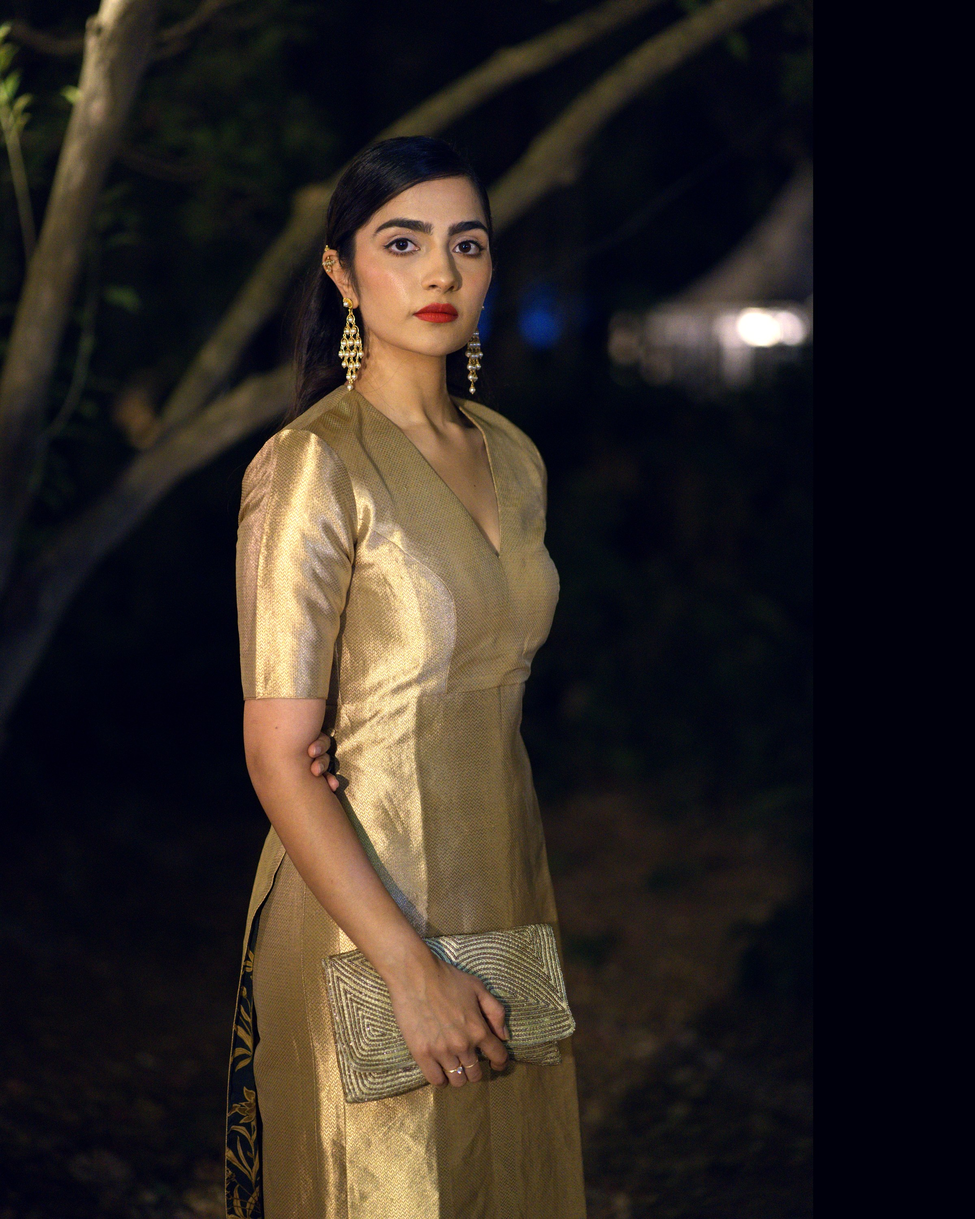
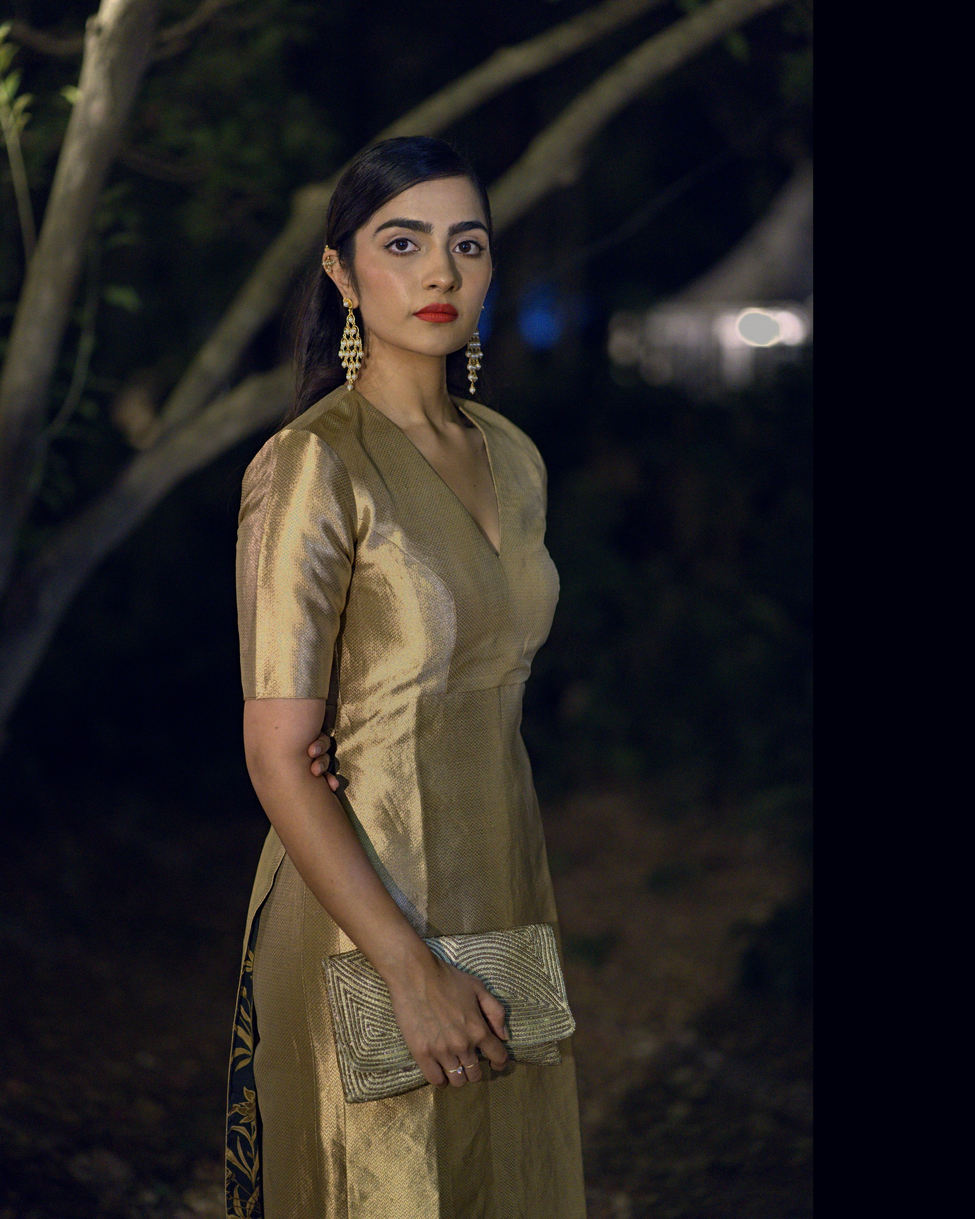
Rukmini v3 grade: highlight rolloff + local even-tone + skin-mag cleanup. Featured card uses 09185

Changed region(s): [[0.2188, 0.155, 0.5625, 1.0], [0.75, 0.248, 0.8125, 0.279]]

diff --git a/tools/grade3.py b/tools/grade3.py
@@ -1,0 +1,124 @@
+#!/usr/bin/env python3
+"""Skin-perfect grade (v3) — the priority is the SKIN, not the cinema look.
+Pipeline (in order):
+  1.  Highlight rolloff — compress the brightest pixels (kills hot cheeks).
+  2.  Local even-tone — gentle frequency-separation to balance left/right
+      lit/shadow side of face without flattening detail.
+  3.  Skin colour clean-up — pull magenta out of skin hues, anchor to a
+      warm neutral. Slight saturation drop ON skin so highlights aren't
+      orange.
+  4.  Background mood — teal-tinted dark falloff (cinema lives here, not
+      on her face).
+  5.  Filmic toe + gentle vignette + fine grain.
+"""
+import os, sys
+import numpy as np
+from PIL import Image, ImageFilter, ImageDraw, ImageEnhance, ImageChops
+
+def to_np(img):  return np.asarray(img).astype(np.float32) / 255.0
+def to_img(a):   return Image.fromarray((np.clip(a, 0, 1) * 255).astype(np.uint8))
+
+def rgb_to_hsv(a):
+    r, g, b = a[..., 0], a[..., 1], a[..., 2]
+    mx, mn = a.max(-1), a.min(-1)
+    v = mx
+    s = np.where(mx > 1e-6, (mx - mn) / (mx + 1e-6), 0)
+    C = mx - mn + 1e-6
+    h = np.zeros_like(mx)
+    m = (mx == r); h[m] = ((g - b)[m] / C[m]) % 6
+    m = (mx == g); h[m] = (b - r)[m] / C[m] + 2
+    m = (mx == b); h[m] = (r - g)[m] / C[m] + 4
+    return h * 60.0, s, v
+
+def grade(src, dst, crop45=None, max_w=2400):
+    img = Image.open(src).convert('RGB')
+
+    # crop 16:9 -> 4:5 around the face centre (cx in 0..1)
+    if crop45 is not None:
+        w, h = img.size
+        cw = int(h * 4 / 5)
+        x0 = int(max(0, min(w - cw, crop45 * w - cw / 2)))
+        img = img.crop((x0, 0, x0 + cw, h))
+    if img.width > max_w:
+        img = img.resize((max_w, int(img.height * max_w / img.width)), Image.LANCZOS)
+
+    a = to_np(img)
+    H, S, V = rgb_to_hsv(a)
+    L = 0.299 * a[..., 0] + 0.587 * a[..., 1] + 0.114 * a[..., 2]
+
+    # ── 1. SKIN MASK — wider than before, with a soft halo
+    skin = (
+        ((H > 4) & (H < 48)) &
+        (S > 0.10) & (S < 0.78) &
+        (L > 0.20) & (L < 0.96)
+    ).astype(np.float32)
+    sm = Image.fromarray((skin * 255).astype(np.uint8))
+    sm = sm.filter(ImageFilter.GaussianBlur(radius=max(8, img.width // 250)))
+    skin = np.asarray(sm, np.float32) / 255.0
+
+    # ── 2. HIGHLIGHT ROLLOFF — squash the hottest values so cheeks/forehead
+    #    don't read as glowing patches. Operates on luminance to keep colour.
+    knee, ceil = 0.78, 1.0
+    over = np.clip((L - knee) / (ceil - knee), 0, 1)        # 0..1 in the hot zone
+    rolloff = 1 - over * over * 0.32                         # quadratic gentle squash
+    a *= rolloff[..., None]
+    a = np.clip(a, 0, 1)
+    L = 0.299 * a[..., 0] + 0.587 * a[..., 1] + 0.114 * a[..., 2]
+
+    # ── 3. EVEN-TONE — large-radius gaussian gives "local average"; subtract
+    #    from luminance, scale partially, add back. This evens out brightness
+    #    asymmetry across the face WITHOUT killing facial structure.
+    bigblur = max(40, img.width // 18)
+    Lo = np.asarray(Image.fromarray((L * 255).astype(np.uint8))
+                    .filter(ImageFilter.GaussianBlur(bigblur)), np.float32) / 255.0
+    avg = float(L.mean())
+    # pull only the skin towards the average — background keeps its mood
+    correction = (avg - Lo) * 0.42 * skin
+    for c in range(3):
+        a[..., c] = np.clip(a[..., c] + correction, 0, 1)
+
+    # ── 4. SKIN COLOUR CLEAN-UP — drop magenta in skin hues (slightly cool the
+    #    red channel where skin is detected), pull saturation down on skin a
+    #    touch so highlights don't read orange.
+    a[..., 0] = a[..., 0] - 0.025 * skin                     # red
+    a[..., 2] = a[..., 2] + 0.012 * skin                     # tiny blue lift, kills magenta
+    a = np.clip(a, 0, 1)
+    L2 = (0.299 * a[..., 0] + 0.587 * a[..., 1] + 0.114 * a[..., 2])[..., None]
+    sat = (1.0 - 0.12 * skin)[..., None]                     # -12% saturation on skin
+    a = np.clip(L2 + (a - L2) * sat, 0, 1)
+
+    # ── 5. BACKGROUND MOOD — teal toe in shadows, gentle warm in highlights,
+    #    BUT only where skin mask is low.
+    notskin = 1 - skin
+    Ln = 0.299 * a[..., 0] + 0.587 * a[..., 1] + 0.114 * a[..., 2]
+    shadow_w = (np.clip(1 - Ln, 0, 1) ** 2.4) * notskin
+    high_w   = (np.clip(Ln, 0, 1) ** 2.6) * notskin
+    a[..., 2] = np.clip(a[..., 2] + 0.055 * shadow_w - 0.020 * high_w, 0, 1)
+    a[..., 0] = np.clip(a[..., 0] - 0.018 * shadow_w + 0.022 * high_w, 0, 1)
+
+    # ── 6. Output — filmic gamma, vignette, fine grain
+    img = to_img(a)
+    img = ImageEnhance.Contrast(img).enhance(1.04)
+
+    w, h = img.size
+    mask = Image.new('L', (w // 8, h // 8), 0)
+    d = ImageDraw.Draw(mask)
+    d.ellipse([-w * .04, -h * .04, w / 8 * 1.22, h / 8 * 1.22], fill=255)
+    mask = mask.resize((w, h)).filter(ImageFilter.GaussianBlur(min(w, h) // 7))
+    dark = ImageEnhance.Brightness(img).enhance(0.80)
+    img = Image.composite(img, dark, mask)
+    noise = Image.effect_noise((w, h), 3).convert('L')
+    img = ImageChops.overlay(img, Image.merge('RGB', (noise, noise, noise)))
+
+    img.save(dst, 'JPEG', quality=90)
+    print(dst, img.size, os.path.getsize(dst))
+
+if __name__ == '__main__':
+    base = os.path.dirname(os.path.dirname(os.path.abspath(__file__)))
+    # featured card uses 09185 (per user choice)
+    grade('/tmp/grade-src/ruk-09185.jpg', f'{base}/assets/rukmini/feat-rukmini.jpg', crop45=.5)
+    # also re-render the row so it stays consistent with the new look
+    grade('/tmp/grade-src/ruk-09185.jpg', f'{base}/assets/rukmini/rukmini-1.jpg', crop45=.50)
+    grade('/tmp/grade-src/ruk-09190.jpg', f'{base}/assets/rukmini/rukmini-2.jpg', crop45=.52)
+    grade('/tmp/grade-src/ruk-09191.jpg', f'{base}/assets/rukmini/rukmini-3.jpg', crop45=.55)
+    grade('/tmp/grade-src/ruk-09182.jpg', f'{base}/assets/rukmini/rukmini-4.jpg', crop45=.48)
